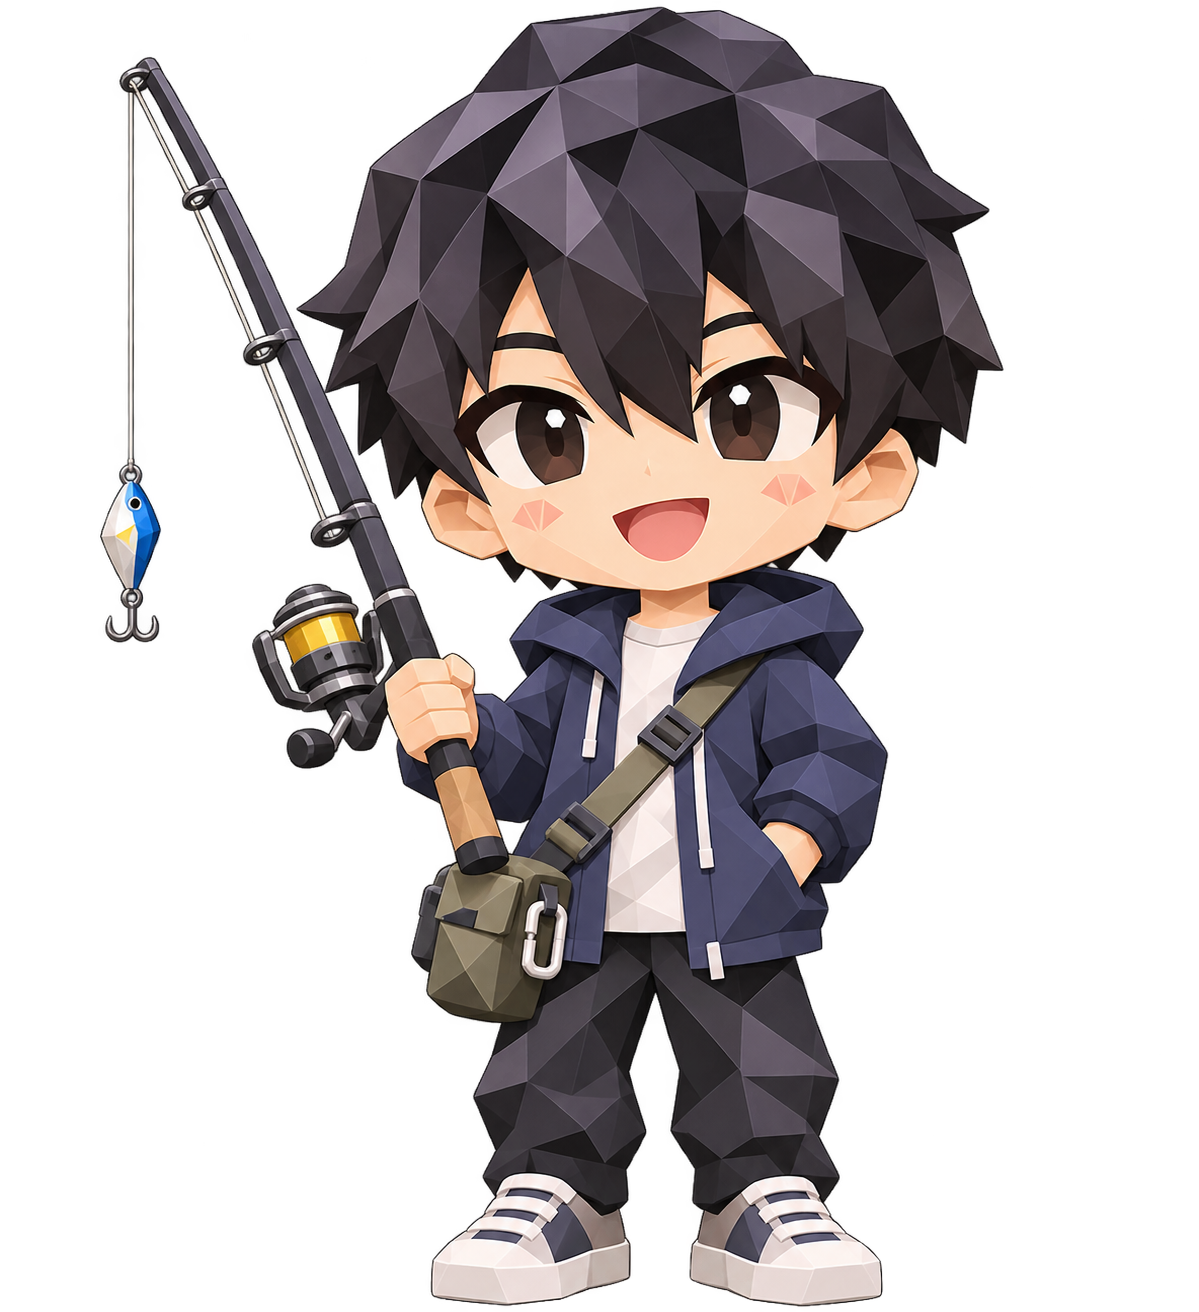
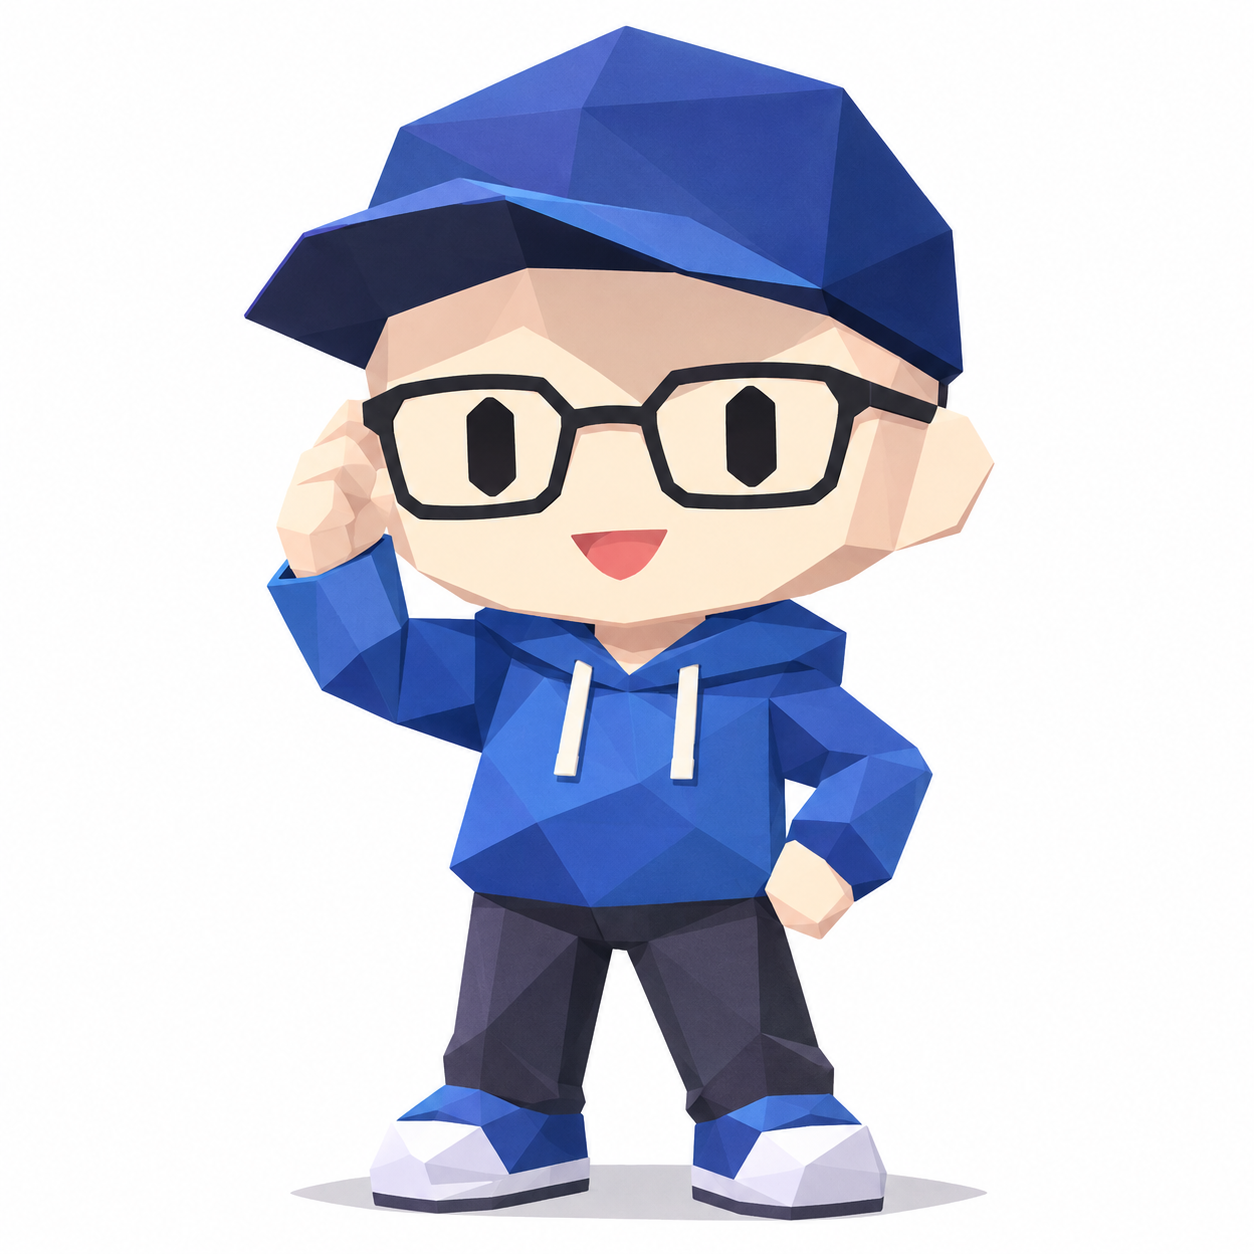
メンバー3の編集。

diff --git a/members/152.js b/members/152.js
@@ -1,15 +1,15 @@
 addMember({
   id: "152",
-  name: "152",
-  kana: "",
+  name: "藤崎晋伍",
+  kana: "ふじさきしんご",
   color: "coral",
   avatar: "assets/152-avatar.png",
-  avatarAlt: "釣り竿を持った152のアバター",
+  avatarAlt: "藤崎晋伍のアバター",
   heroAvatar: "assets/152-avatar.png",
   heroSize: "wide",
-  intro: "アウトドアとインドア両方大好きです。",
+  intro: "インドアです。",
   details: [
-    ["好きなこと", "釣り"],
+    ["好きなこと", "スマホゲーム"],
     ["ひとこと", "よろしくお願いします。"],
   ],
 
